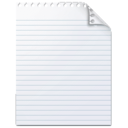
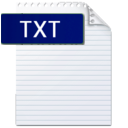
Added images of files and script for unknown file extension

Changed region(s): [[0.0, 0.0938, 0.6875, 0.375]]

diff --git a/web/resources/scripts/files_table.js b/web/resources/scripts/files_table.js
@@ -3,6 +3,12 @@ function getURLParameter(name) {
     return decodeURIComponent((new RegExp('[?|&]' + name + '=' + '([^&;]+?)(&|#|;|$)').exec(location.search)||[,""])[1].replace(/\+/g, '%20'))||null
 }
 
+function unknownExtension(image) {
+    image.onerror = "";
+    image.src = "/resources/images/fileico/unknown.png";
+    return true;
+}
+
 $(document).ready(function() {
     $('#' + getURLParameter('sort')).addClass('sort_by_it');
 });
